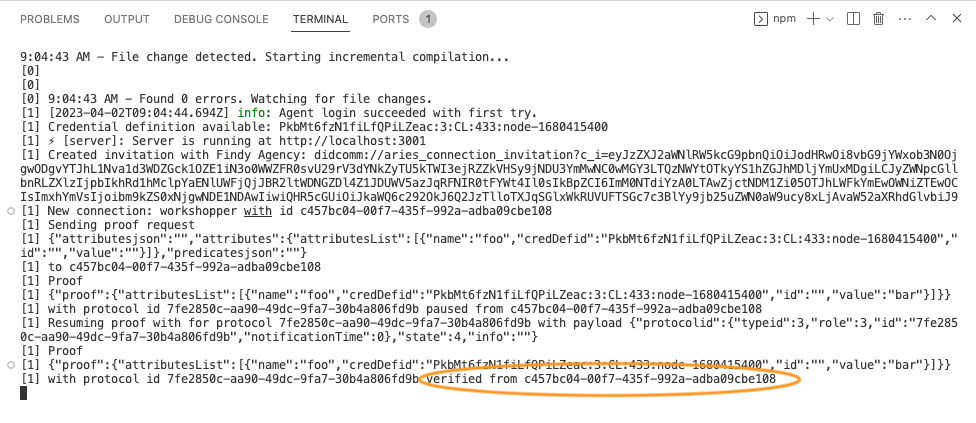
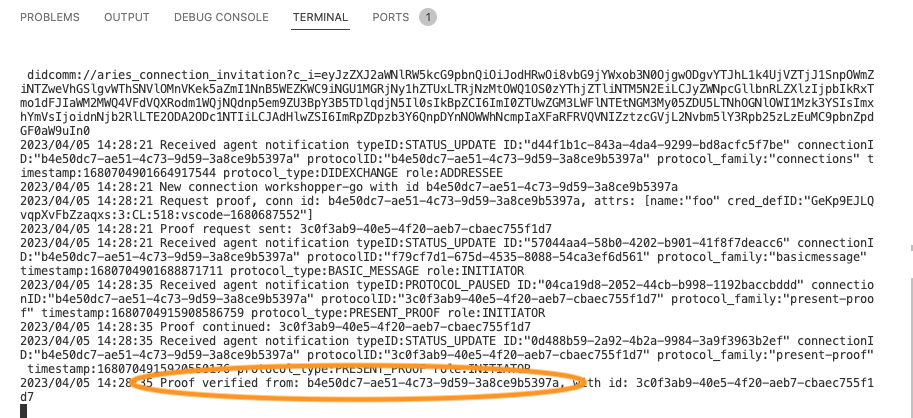
Update screenshots for go track.

diff --git a/track2.2/task5/README.md b/track2.2/task5/README.md
@@ -265,7 +265,7 @@ func main() {
 }
 ```
 
-Add implementation to the `/verify`-endpoint:
+Replace the implementation in the `/verify`-endpoint with the following:
 
 ```go
 // Show pairwise invitation. Once connection is established, verify credential.
@@ -282,7 +282,7 @@ func (a *app) verifyHandler(response http.ResponseWriter, r *http.Request) {
 
 ## 4. Test the `/verify`-endpoint
 
-Make sure the server is running (`npm run dev`).
+Make sure the server is restarted (`go run .`).
 Open your browser to <http://localhost:3001/verify>
 
 *You should see a simple web page with a QR code and a text input with a prefilled string.*

diff --git a/track2.2/task1/README.md b/track2.2/task1/README.md
@@ -143,7 +143,7 @@ func (a *app) greetHandler(response http.ResponseWriter, r *http.Request) {
 
 ## 4. Test the `/greet`-endpoint
 
-Make sure the server is running (`npm run dev`).
+Make sure the server is restarted (`go run .`).
 Open a browser window to <http://localhost:3001/greet>
 
 *You should see a simple web page with a QR code and a text input with a prefilled string.*

diff --git a/track2.2/task4/README.md b/track2.2/task4/README.md
@@ -255,7 +255,7 @@ func (a *app) issueHandler(response http.ResponseWriter, r *http.Request) {
 
 ## 4. Test the `/issue`-endpoint
 
-Make sure the server is running (`npm run dev`).
+Make sure the server is restarted (`go run .`).
 Open your browser to <http://localhost:3001/issue>
 
 *You should see a simple web page with a QR code and a text input with a prefilled string.*
